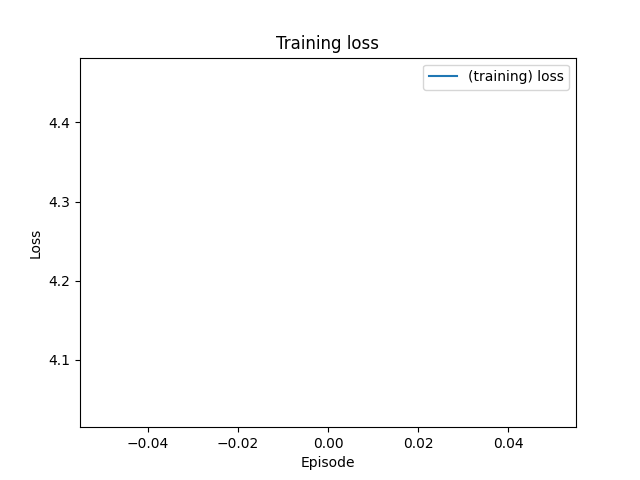
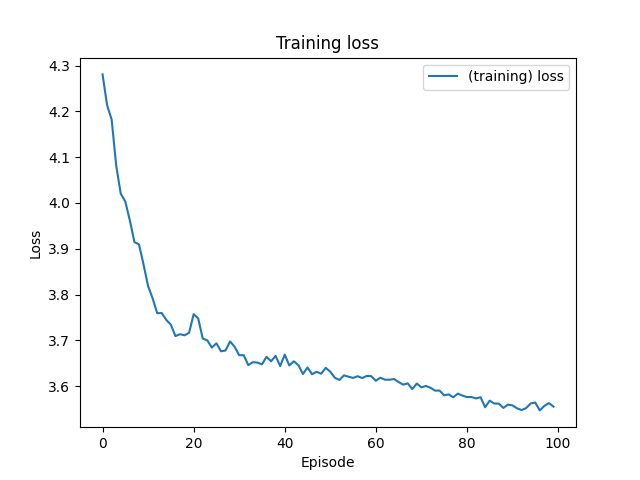
Enable action selection function parameter

diff --git a/src/reinforcement_learner.py b/src/reinforcement_learner.py
@@ -1,6 +1,7 @@
 import random
 from time import time
 from typing import Tuple
+from functools import partial
 
 import numpy as np
 
@@ -51,7 +52,7 @@ class ReinforcementLearner:
 
             start_time = time()
             while time() - start_time < self.__simulation_time_out:
-                monte_carlo_tree.do_one_simulation(self.__ANET.choose_action, monte_carlo_game)
+                monte_carlo_tree.do_one_simulation(self.__ANET.choose_epsilon_greedy, monte_carlo_game)
                 monte_carlo_game.reset(root_state)
 
             target_distribution = monte_carlo_tree.get_normalized_distribution()
@@ -102,10 +103,10 @@ class ReinforcementLearner:
 
         if parameters.VISUALIZE_GAMES:
             print('Showing one episode with the greedy strategy.')
-            ReinforcementLearner.run_one_game(self.__ANET, self.__ANET, True)
+            ReinforcementLearner.run_one_game(self.__ANET, self.__ANET, ANET.choose_greedy, True)
 
     @staticmethod
-    def run_one_game(player_1: ANET, player_2: ANET, visualize=False) -> int:
+    def run_one_game(player_1: ANET, player_2: ANET, action_function, visualize: bool) -> int:
         world = SimulatedWorldFactory.get_simulated_world()
         current_state = world.reset()
 
@@ -118,14 +119,15 @@ class ReinforcementLearner:
         while not world.is_final_state():
             legal_actions = world.get_legal_actions()
 
-            action = players[i].choose_softmax(current_state, legal_actions)
+            # action = players[i].action_function(current_state, legal_actions)
+            action = partial(action_function, players[i])(current_state, legal_actions)
             current_state, winner = world.step(action)
 
-            # Flip starting player for next round
+            # Alternating players
             i = (i + 1) % 2
 
             if visualize and parameters.GAME_TYPE == Game.Hex:
                 Visualize.draw_board(current_state, winner, str(player_1), str(player_2))
 
-        print(f'Player {winner} has won the game.')
+        print(f'Player {winner} won the game.')
         return winner

diff --git a/src/TOPP.py b/src/TOPP.py
@@ -9,17 +9,20 @@ from visualize import Visualize
 class TOPP:
 
     def __init__(self) -> None:
-        self.agents = self.get_agents()
+        self.agents = TOPP.get_agents()
         self.number_of_agents = len(self.agents)
         self.number_of_games = parameters.NUMBER_OF_GAMES
         self.visualize_game = parameters.VISUALIZE_GAMES
         self.number_of_games_per_agent = self.number_of_games * (self.number_of_agents - 1)
+        self.action_function = parameters.ACTION_SELECTION
 
-    def get_agents(self):
+    @staticmethod
+    def get_agents():
         _, _, models = next(walk('models'))
         models = filter(lambda name: name[0] != '.', models)
+        models = sorted(models, key=lambda name: int(name.split(".")[0]))
         agents = []
-        for model in sorted(models, key=lambda name: int(name.split(".")[0])):
+        for model in models:
             agent = ANET(model)
             agents.append(agent)
         return agents
@@ -33,14 +36,14 @@ class TOPP:
 
                 for game in range(self.number_of_games):
                     print(f'p1={player_1} is playing against p2={player_2}. Round {game + 1}')
-                    winner = ReinforcementLearner.run_one_game(player_1, player_2, self.visualize_game)
+                    winner = ReinforcementLearner.run_one_game(player_1, player_2, self.action_function, self.visualize_game)
                     winner = player_1 if winner == 1 else player_2
                     win_statistics[winner] += 1
-                    player_1, player_2 = player_2, player_1  # swap positions
+                    player_1, player_2 = player_2, player_1  # change the starting player
 
         self.plot_win_statistics(win_statistics)
 
     def plot_win_statistics(self, statisitcs):
         Visualize.plot_win_statistics(statisitcs)
         for agent, wins in statisitcs.items():
-            print(f'{str(agent):>10} has won {wins}/{self.number_of_games_per_agent} games')
+            print(f'{str(agent):>10} won {wins}/{self.number_of_games_per_agent} games')

diff --git a/src/parameters.py b/src/parameters.py
@@ -2,15 +2,18 @@ from keras.activations import linear, relu, sigmoid, tanh  # noqa
 from keras.losses import kl_divergence  # noqa
 from keras.optimizers import SGD, Adagrad, Adam, RMSprop  # noqa
 
-from ANET import deepnet_cross_entropy  # noqa
+from ANET import ANET, deepnet_cross_entropy  # noqa
 from game import Game
 
+VISUALIZE_GAMES = False
+FRAME_DELAY = 0.4
+
 # RL parameters
-REPLAY_BUFFER_SIZE = 32
+EPISODES = 300
+REPLAY_BUFFER_SIZE = 512
 
 # MCTS parameters
-EPISODES = 1
-SIMULATION_TIME_OUT = 1.5  # s
+SIMULATION_TIME_OUT = 2.5  # s
 UCT_C = 1  # "theoretically 1"
 
 # Simulated World
@@ -19,19 +22,18 @@ LEDGE_BOARD = (0, 1, 0, 1, 0, 1, 0, 1, 0, 0, 2, 0, 0, 1, 1, 1)  # (0, 2, 0, 1, 0
 SIZE = 6 if GAME_TYPE == Game.Hex else len(LEDGE_BOARD)  # 3 <= k <= 10
 STATE_SIZE = 1 + (SIZE ** 2 if GAME_TYPE == Game.Hex else SIZE)
 NUMBER_OF_ACTIONS = SIZE ** 2 if GAME_TYPE == Game.Hex else int((SIZE ** 2 - SIZE) / 2) + 1
-VISUALIZE_GAMES = True
-FRAME_DELAY = 0.4
 
 # ANET
 ANET_EPSILON = 0
 ANET_EPSILON_DECAY = 1
 ANET_LEARNING_RATE = None
-ANET_LOSS_FUNCTION = deepnet_cross_entropy
+ANET_LOSS_FUNCTION = deepnet_cross_entropy  # deepnet_cross_entropy, kl_divergence
 ANET_ACTIVATION_FUNCTION = relu  # linear, relu, sigmoid, or tanh
 ANET_OPTIMIZER = Adam  # SGD, Adagrad, Adam, or RMSprop
-ANET_BATCH_SIZE = 32
 ANET_DIMENSIONS = (STATE_SIZE, 37, 37, NUMBER_OF_ACTIONS)
+ANET_BATCH_SIZE = 512
 
 # TOPP parameters
-ANETS_TO_BE_CACHED = 2
-NUMBER_OF_GAMES = 1
+ANETS_TO_BE_CACHED = 6
+NUMBER_OF_GAMES = 10
+ACTION_SELECTION = ANET.choose_softmax  # ANET.choose_softmax, ANET.choose_greedy, ANET.choose_epsilon_greedy

diff --git a/src/ANET.py b/src/ANET.py
@@ -90,7 +90,7 @@ class ANET:
         self.__name = 'Agent-e' + model_name.replace('.h5', '')
         self.__model = tf.keras.models.load_model(f'models/{model_name}', compile=False)  # type: ignore
 
-    def choose_action(self, state: Tuple[int, ...], valid_actions: Tuple[int, ...]) -> int:
+    def choose_epsilon_greedy(self, state: Tuple[int, ...], valid_actions: Tuple[int, ...]) -> int:
         """Epsilon-greedy action selection function."""
         if random.random() < self.__epsilon:
             return self.choose_uniform(valid_actions)
